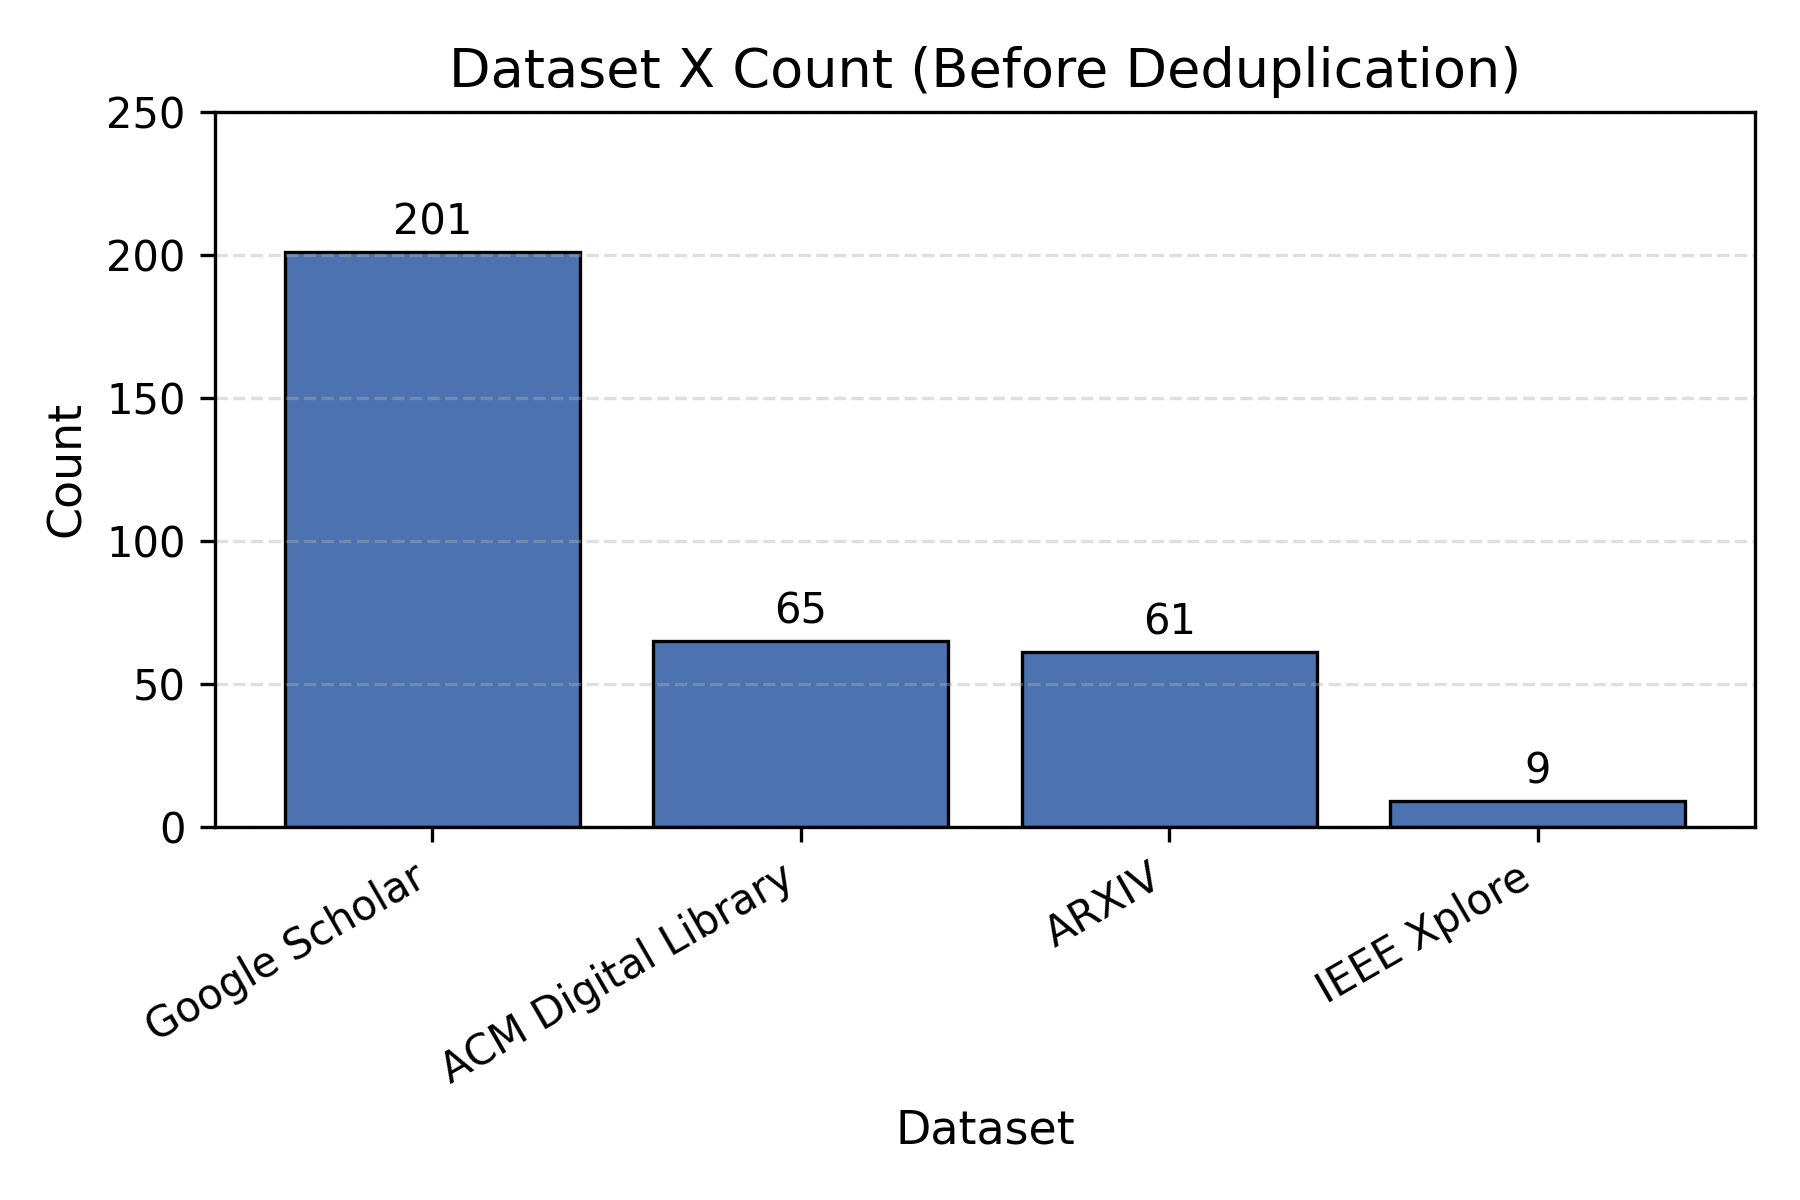
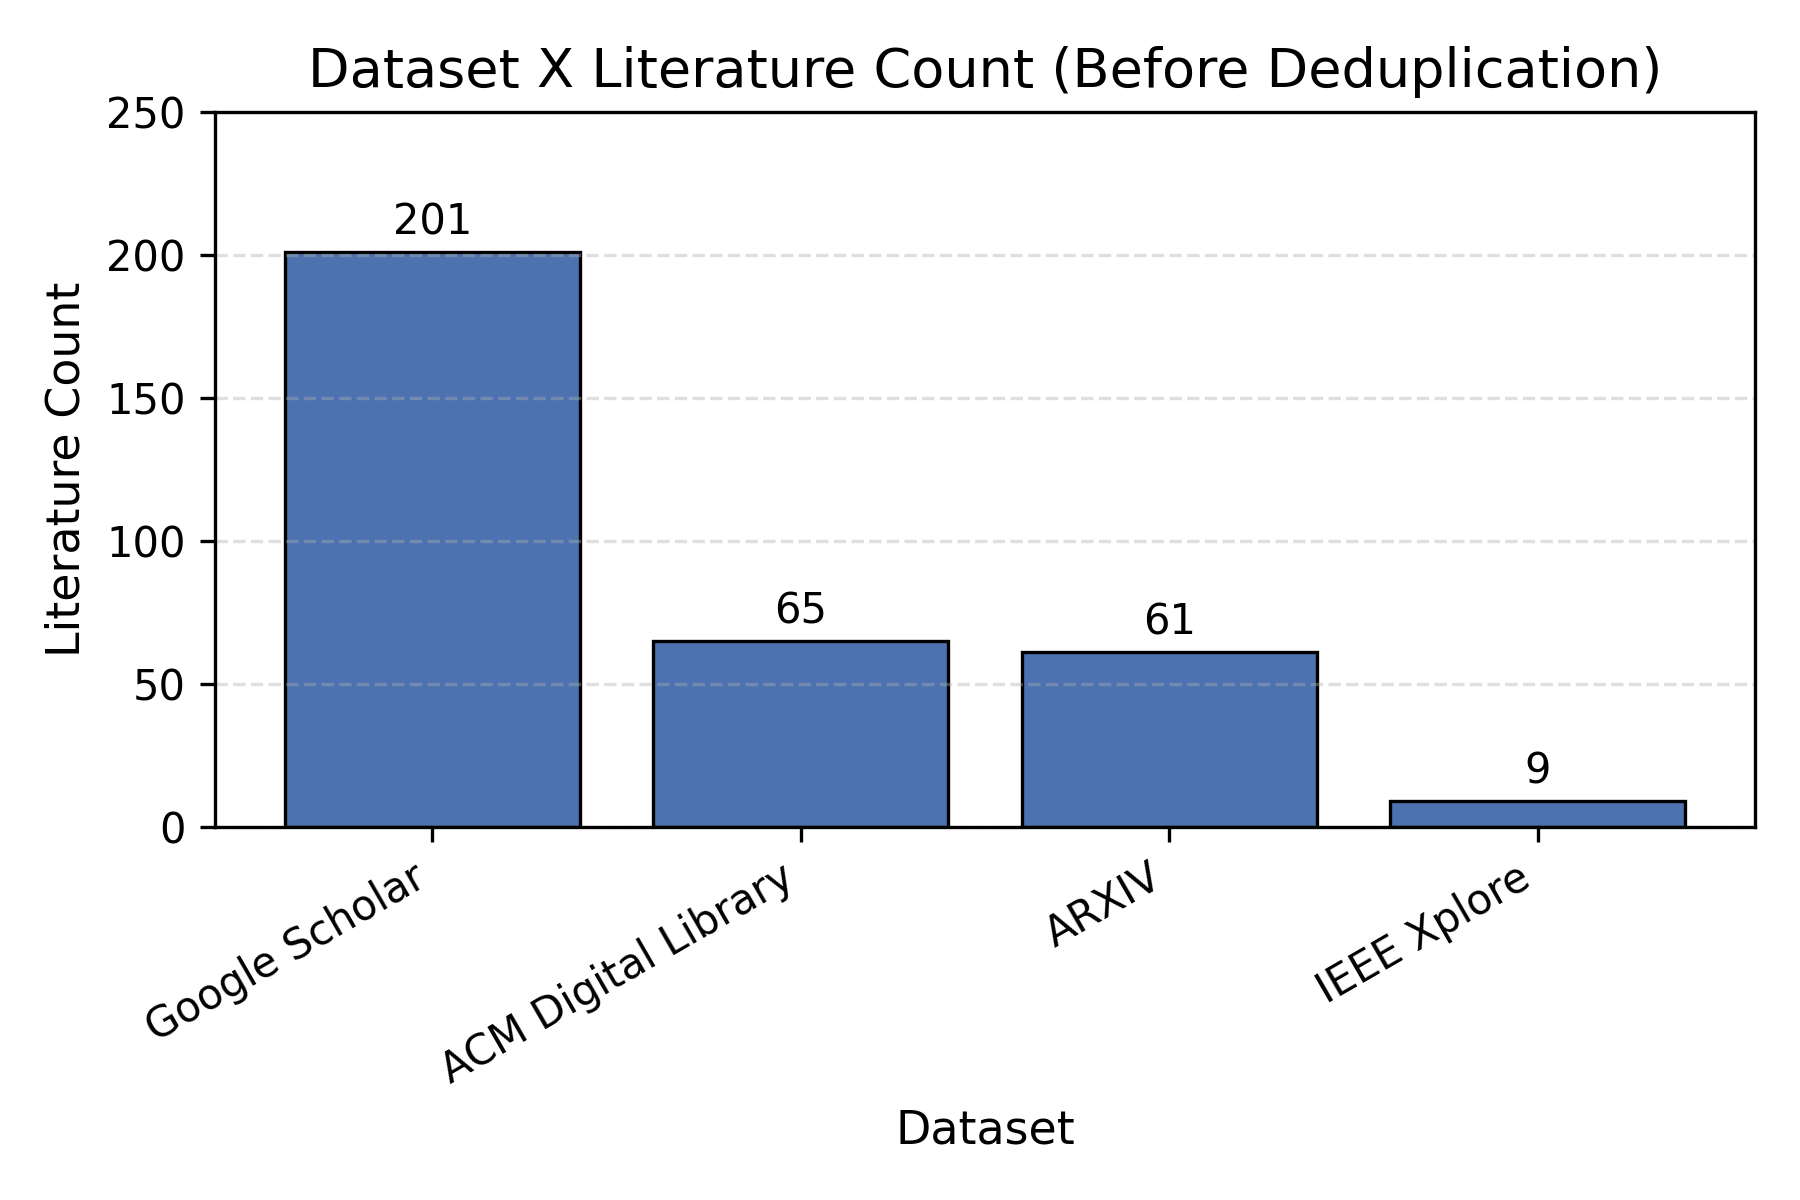
countgraph

Changed region(s): [[0.1556, 0.0308, 0.9333, 0.0925], [0.0311, 0.2467, 0.0622, 0.5242]]

diff --git a/main.py b/main.py
@@ -23,8 +23,8 @@ bars = plt.bar(
 )
 
 plt.xlabel('Dataset', fontsize=11)
-plt.ylabel('Count', fontsize=11)
-plt.title('Dataset X Count (Before Deduplication)', fontsize=13)
+plt.ylabel('Literature Count', fontsize=11)
+plt.title('Dataset X Literature Count (Before Deduplication)', fontsize=13)
 
 plt.ylim(0, 250)  # <<----- Aqui está o limite solicitado
 
